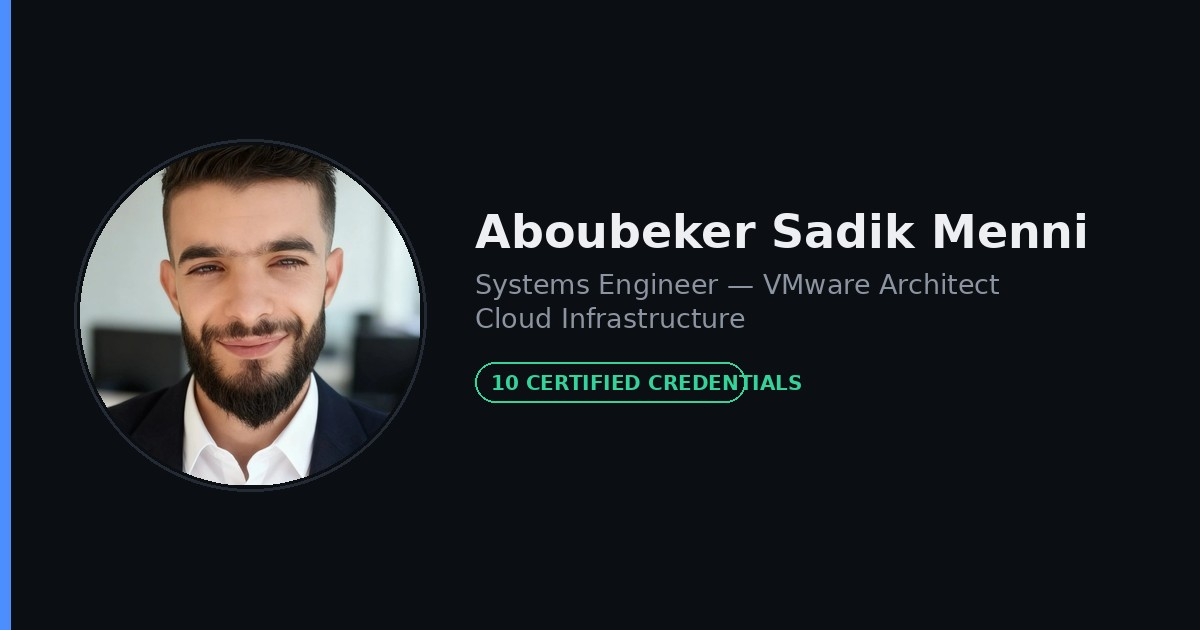
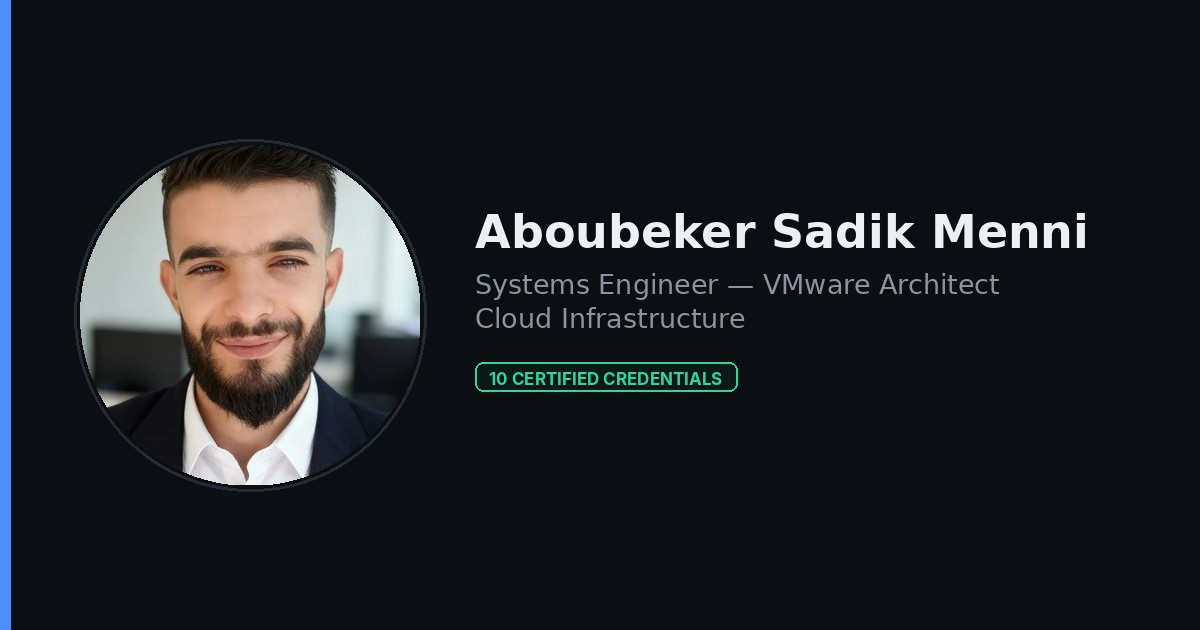
Add files via upload

Changed region(s): [[0.4008, 0.573, 0.6783, 0.6635]]

diff --git a/index.html b/index.html
@@ -4,8 +4,13 @@
 <meta charset="UTF-8">
 <meta name="viewport" content="width=device-width, initial-scale=1.0">
 <title>Aboubeker Sadik Menni — Systems Engineer / VMware Architect</title>
-<meta name="description" content="Ingénieur Systèmes spécialisé VMware — Architecte VCF, 4+ ans en infrastructure critique banque/énergie/gouvernement, 10 certifications vérifiées.">
-<meta property="og:type" content="website">
+<meta name="description" content="Aboubeker Sadik Menni — Systems Engineer et VMware Architect spécialisé en VMware Cloud Foundation, virtualisation, infrastructure cloud et datacenter. 4+ ans d’expérience et 10 certifications vérifiées.">
+  <meta name="author" content="Aboubeker Sadik Menni">
+  <meta name="robots" content="index, follow, max-image-preview:large">
+  <meta name="theme-color" content="#0B0E13">
+  <link rel="canonical" href="https://aboubeker.github.io/portfolio/">
+<meta property="og:locale" content="fr_FR">
+  <meta property="og:type" content="website">
 <meta property="og:title" content="Aboubeker Sadik Menni — Systems Engineer / VMware Architect">
 <meta property="og:description" content="Ingénieur Systèmes spécialisé VMware — Architecte VCF, 4+ ans en infrastructure critique banque/énergie/gouvernement, 10 certifications vérifiées.">
 <meta property="og:url" content="https://aboubeker.github.io/portfolio/">
@@ -16,6 +21,7 @@
 <meta name="twitter:title" content="Aboubeker Sadik Menni — Systems Engineer / VMware Architect">
 <meta name="twitter:description" content="Ingénieur Systèmes spécialisé VMware — Architecte VCF, 4+ ans en infrastructure critique. 10 certifications vérifiées.">
 <meta name="twitter:image" content="https://aboubeker.github.io/portfolio/og-image.jpg">
+  <meta name="twitter:creator" content="@aboubeker">
[1 lines of base64/hex data omitted]
 <link rel="preconnect" href="https://fonts.googleapis.com">
 <link href="https://fonts.googleapis.com/css2?family=Space+Grotesk:wght@500;600;700&family=Inter:wght@400;500;600;700;800&display=swap" rel="stylesheet">
@@ -87,6 +93,7 @@
   @media(max-width:760px){ .hero-role{margin-left:auto; margin-right:auto;} }
 
   .stat-row{display:flex; gap:28px; margin-bottom:28px; flex-wrap:wrap;}
+.stat:first-child b,.stat:nth-child(2) b,.stat:nth-child(3) b{color:var(--text);}
   @media(max-width:760px){ .stat-row{justify-content:center;} }
   .stat b{display:block; font-family:var(--grot); font-size:24px; font-weight:700; color:var(--text);}
   .stat span{font-size:12px; color:var(--dim); text-transform:uppercase; letter-spacing:.05em;}
@@ -176,6 +183,33 @@
   }
   #back-to-top.show{opacity:1; pointer-events:auto; transform:translateY(0);}
 </style>
+
+  <script type="application/ld+json">
+  {
+    "@context": "https://schema.org",
+    "@type": "Person",
+    "name": "Aboubeker Sadik Menni",
+    "jobTitle": "Systems Engineer / VMware Architect",
+    "url": "https://aboubeker.github.io/portfolio/",
+    "sameAs": [
+      "https://github.com/aboubeker",
+      "https://linkedin.com/in/aboubeker-sadik-menni"
+    ],
+    "knowsAbout": [
+      "VMware Cloud Foundation",
+      "VMware vSphere",
+      "VMware ESXi",
+      "VMware vCenter",
+      "VMware vSAN",
+      "VMware NSX",
+      "Microsoft Azure",
+      "Virtualization",
+      "Cloud Infrastructure",
+      "Datacenter Infrastructure"
+    ]
+  }
+  </script>
+
 </head>
 <body>
 
